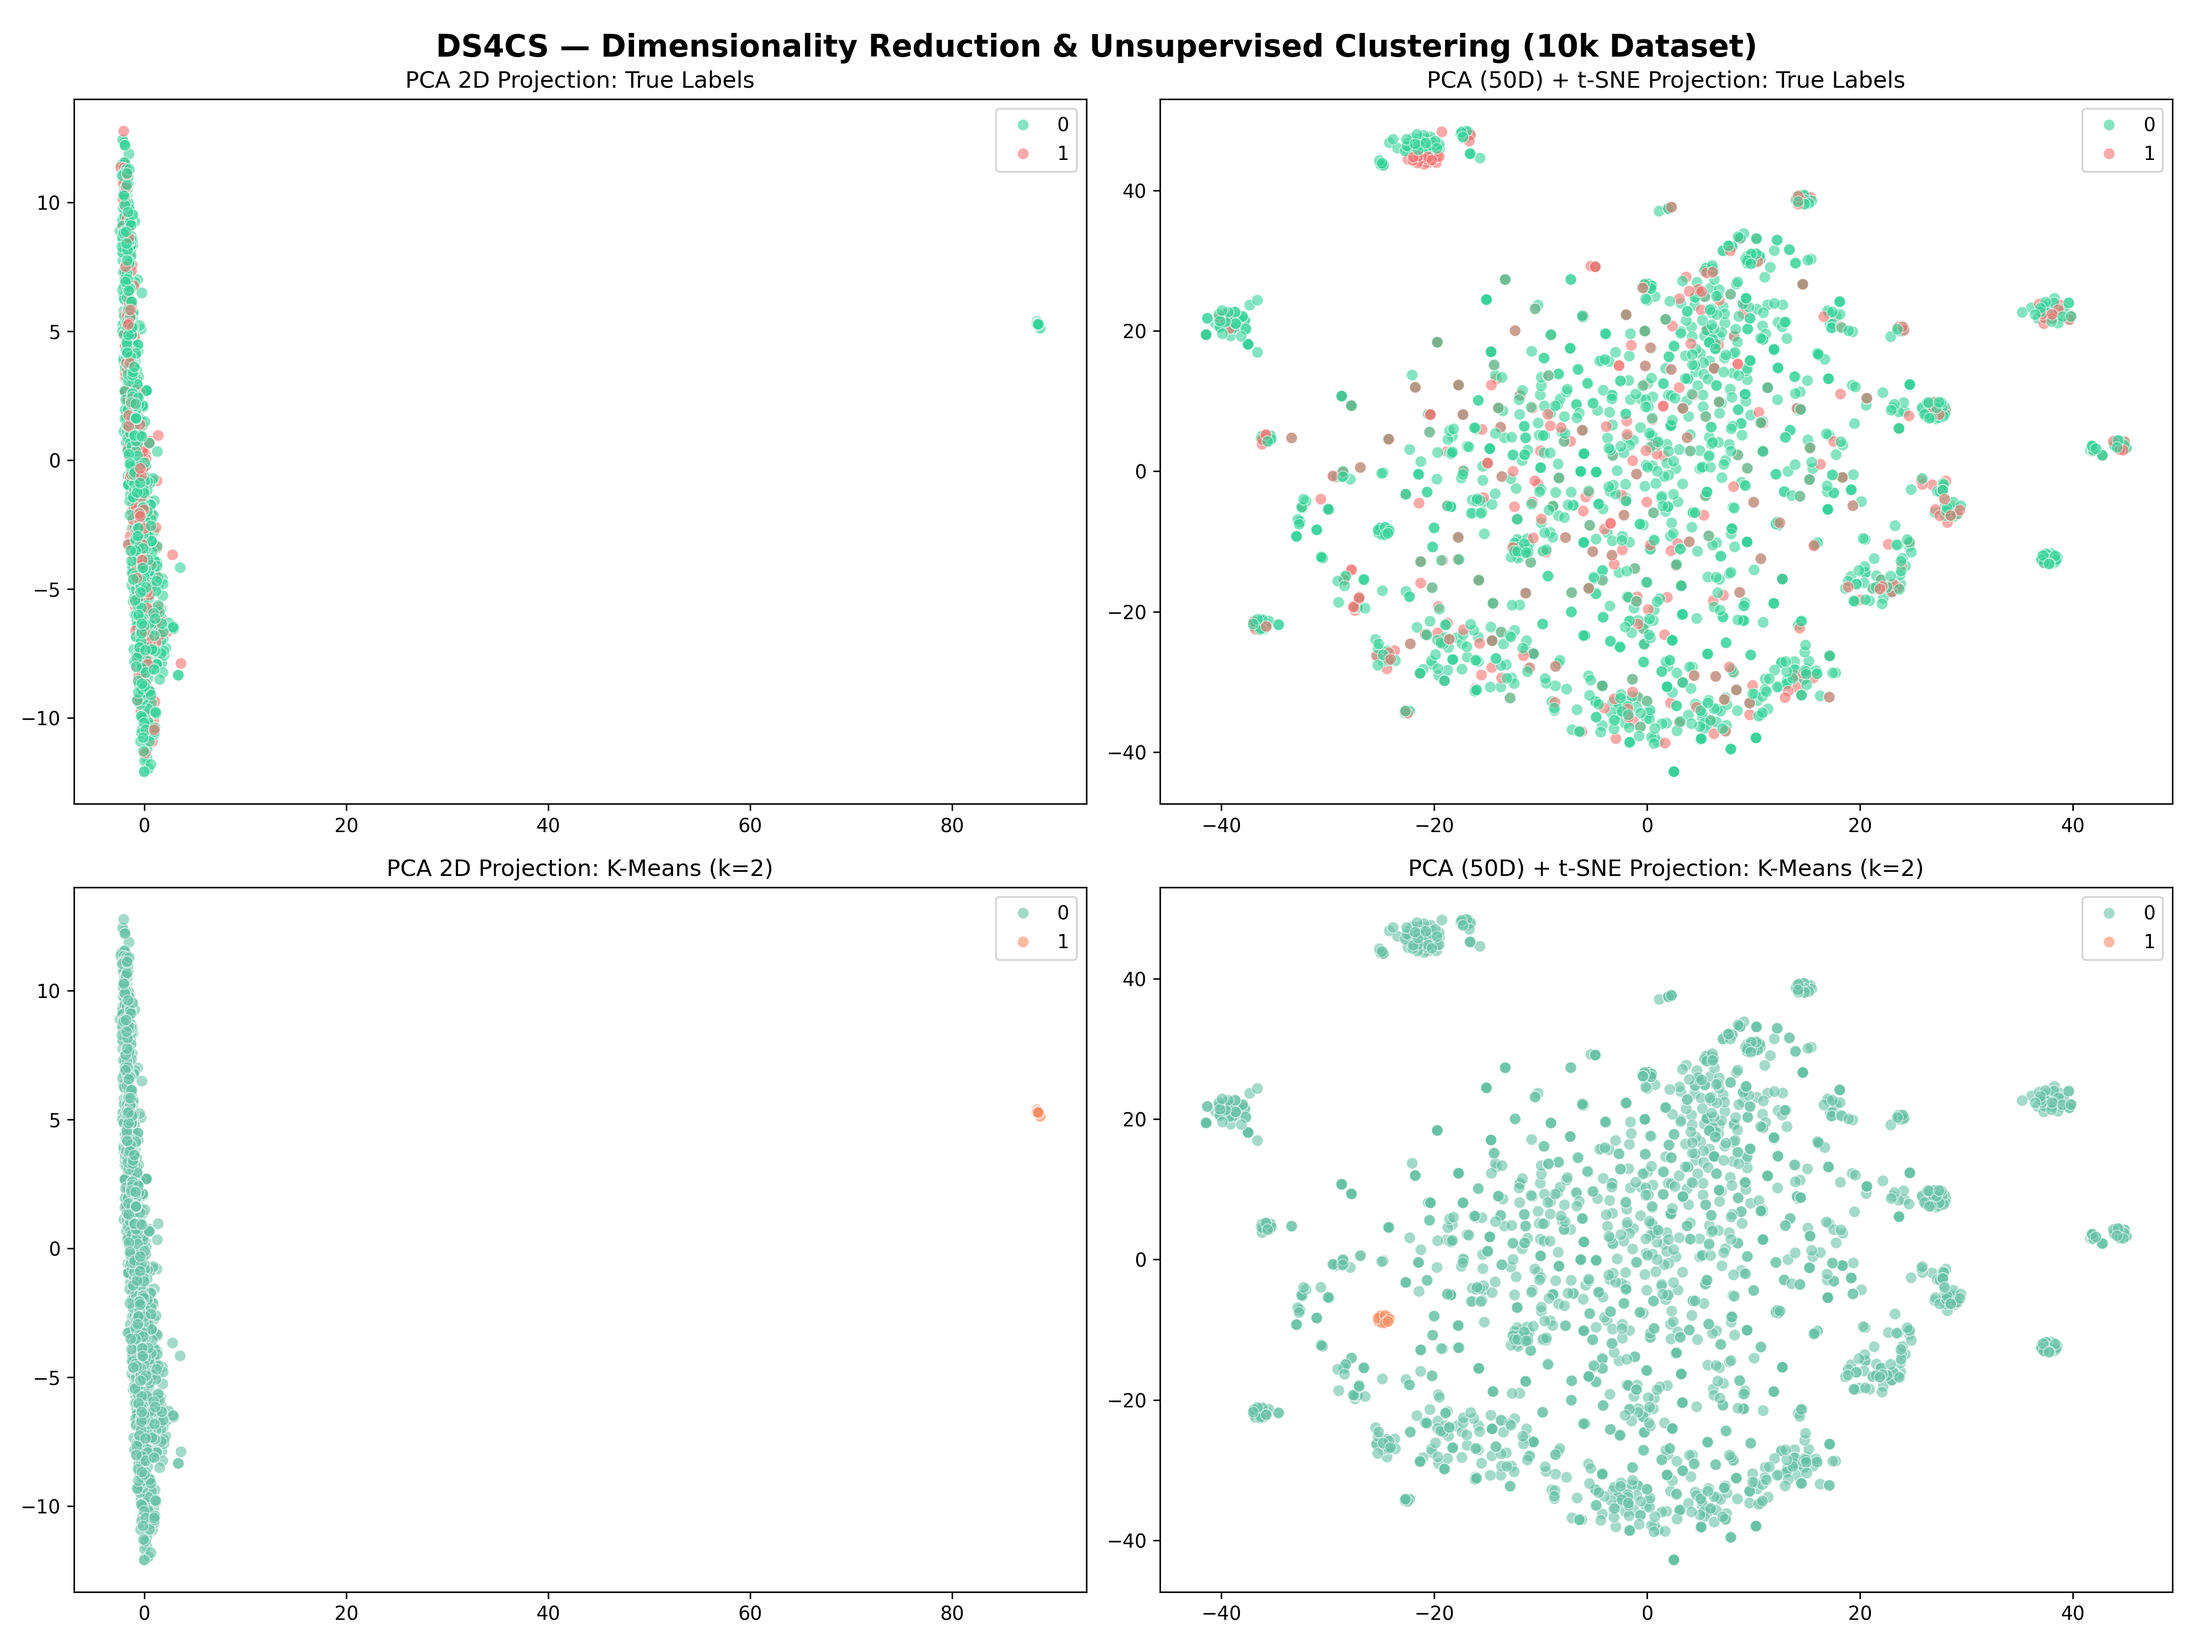
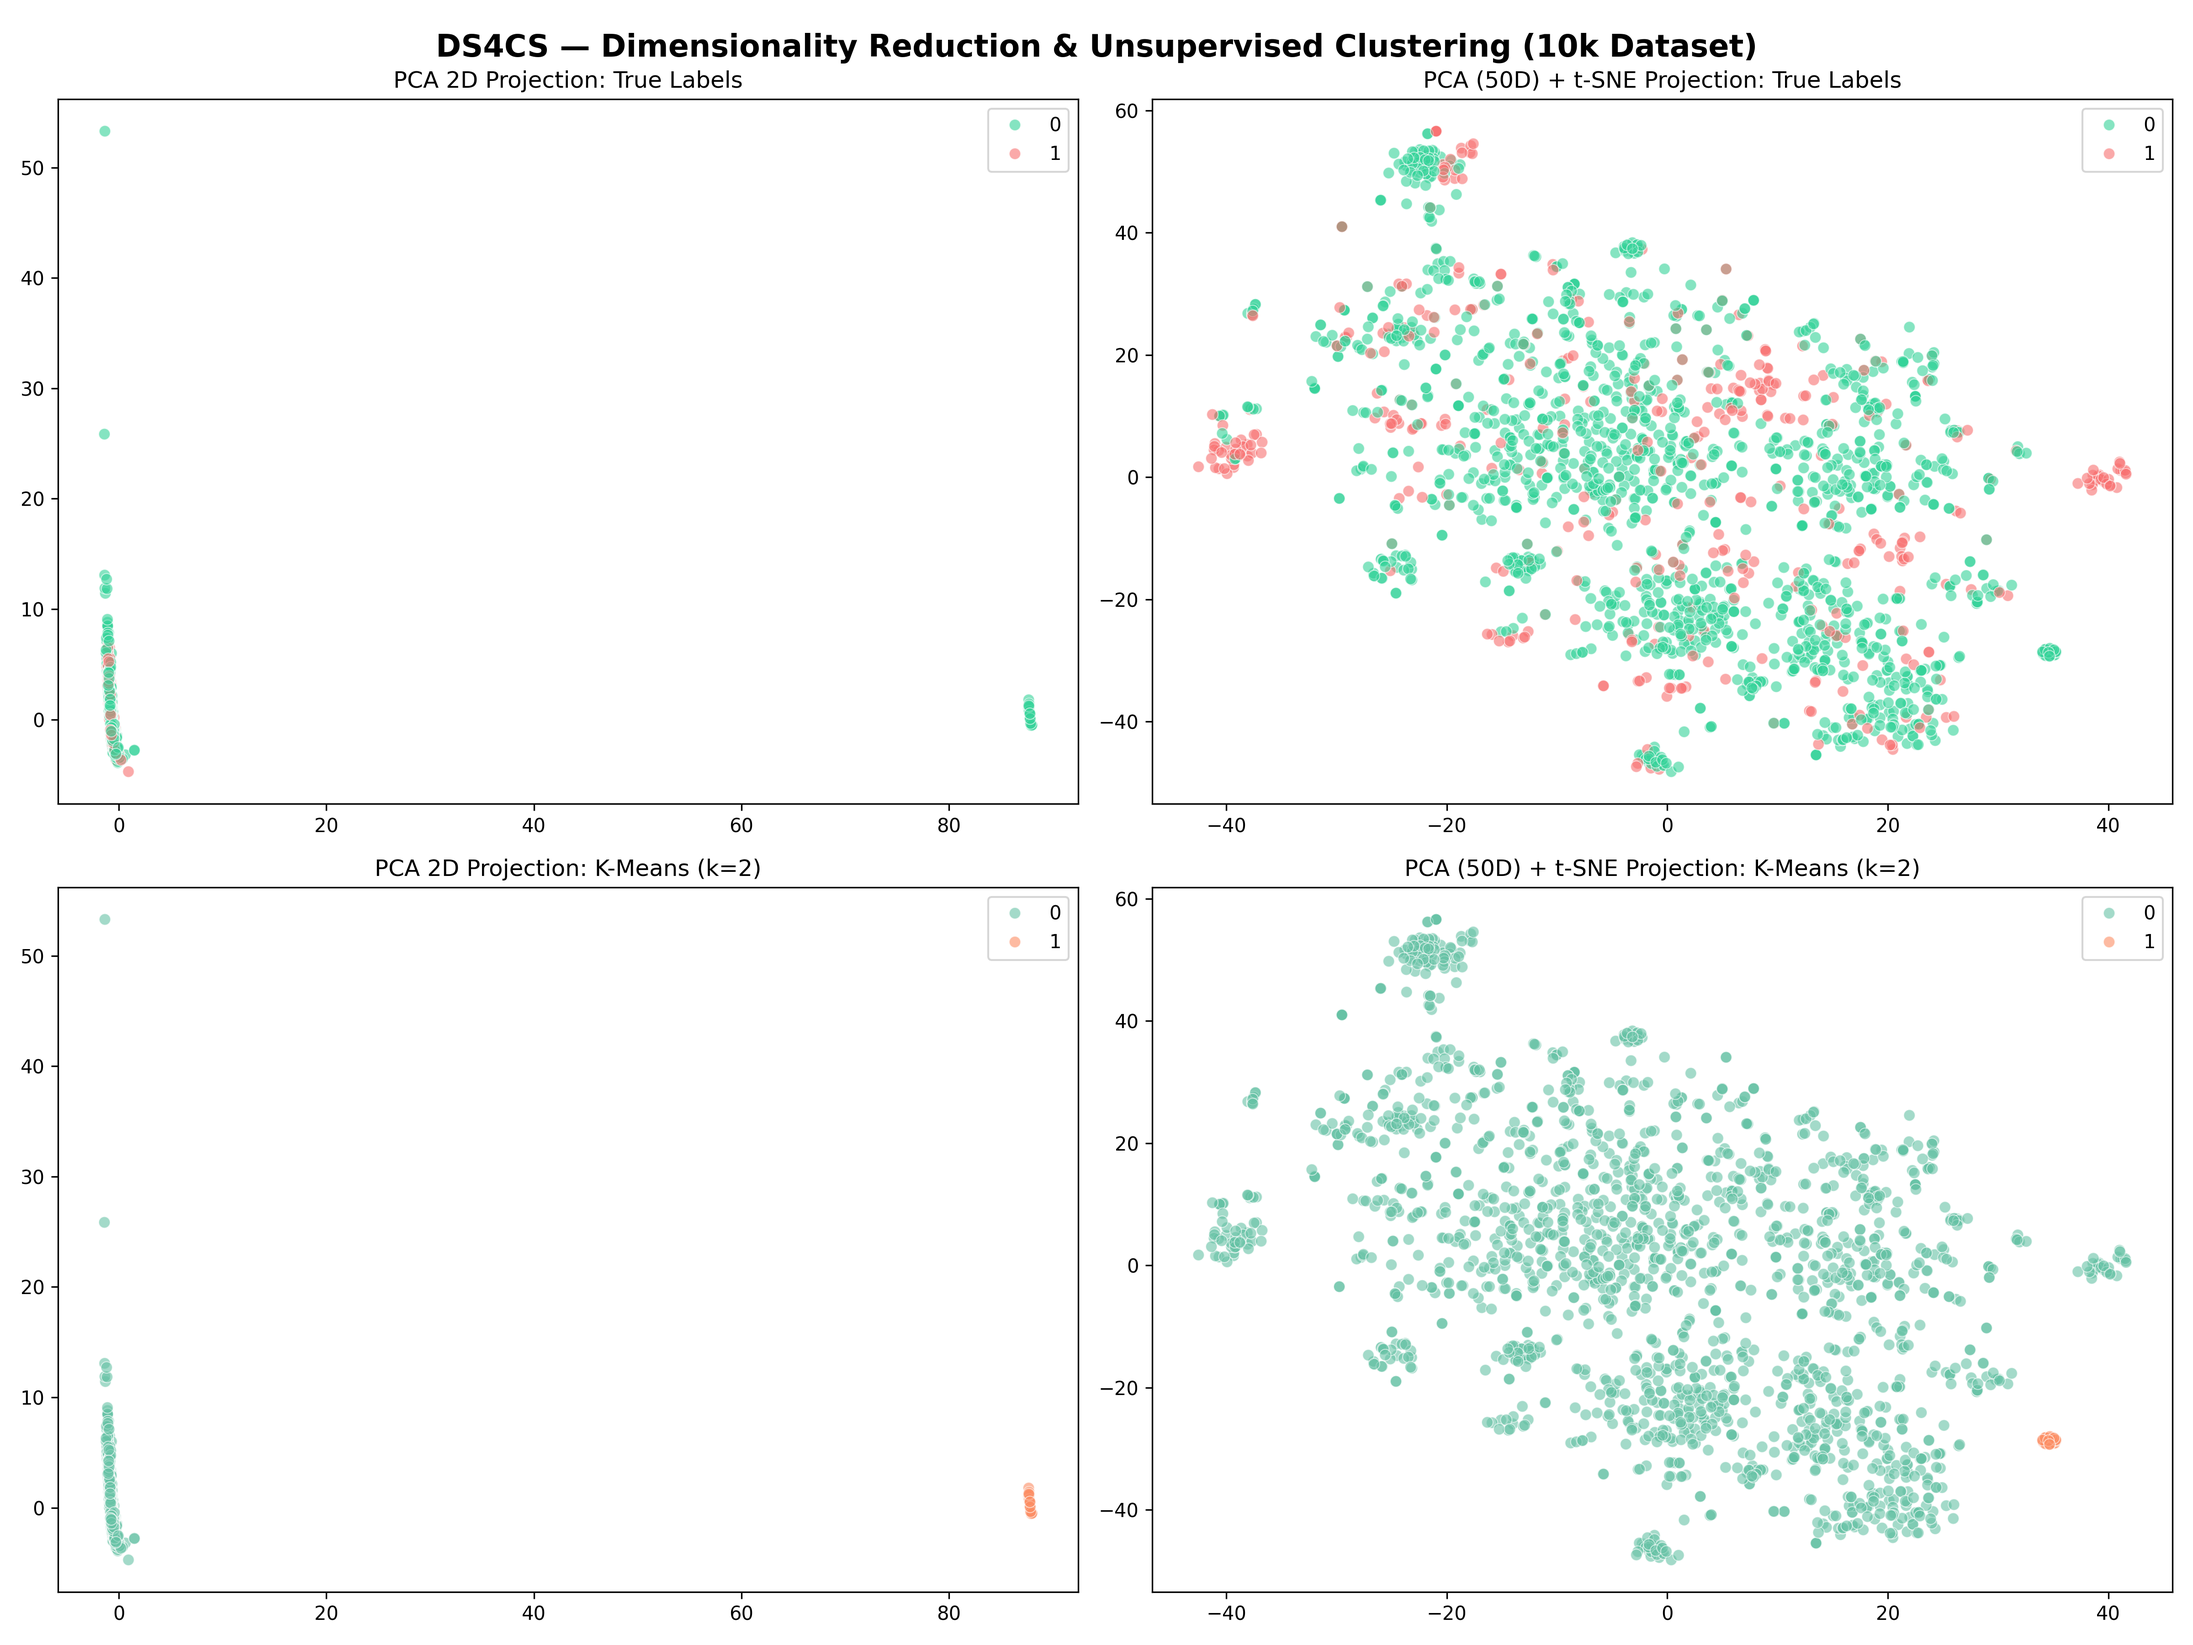
Update unsupervised clustering results and progression report to use final 92 features

diff --git a/docs/ML_Progression_Report.md b/docs/ML_Progression_Report.md
@@ -239,7 +239,7 @@ Comparing the 3,000 template baseline with the scaled 10,000 template results (b
 ## Iteration 8: Deep Learning & Unsupervised Representation
 **Objective:** Map HTML contents to visual/unsupervised structures to inspect structural clusters and bypass text processing.
 1.  **Text-to-Image representation learning (PyTorch CNN):** Raw HTML hidden text was mapped to a $64 \times 64$ ASCII-intensity grid (image) and trained on a 2D CNN (Conv2D -> MaxPool2D -> Linear). The CNN converged to the majority baseline (Accuracy **80.00%**, Recall **0.00%**), indicating that raw pixel mappings of characters require deeper convolution layers or pre-trained visual encoders (like layoutLM) to extract layout structures.
-2.  **Unsupervised Clustering (t-SNE visualization):** Projecting the 50 dense MinHash semantic features into 2D space using t-SNE reveals extremely strong structural cluster groupings. Unsupervised **K-Means (k=2)** achieved a silhouette score of **0.9692** and aligned with DOM app density. This confirms that structural layout profiles cluster cleanly even without label training.
+2.  **Unsupervised Clustering (t-SNE visualization):** Projecting the 92 rich structural-semantic features into 2D space using t-SNE reveals extremely strong structural cluster groupings. Unsupervised **K-Means (k=2)** achieved a silhouette score of **0.9123** and aligned with DOM app density. This confirms that structural layout profiles cluster cleanly even without label training.
 
 ---
 
